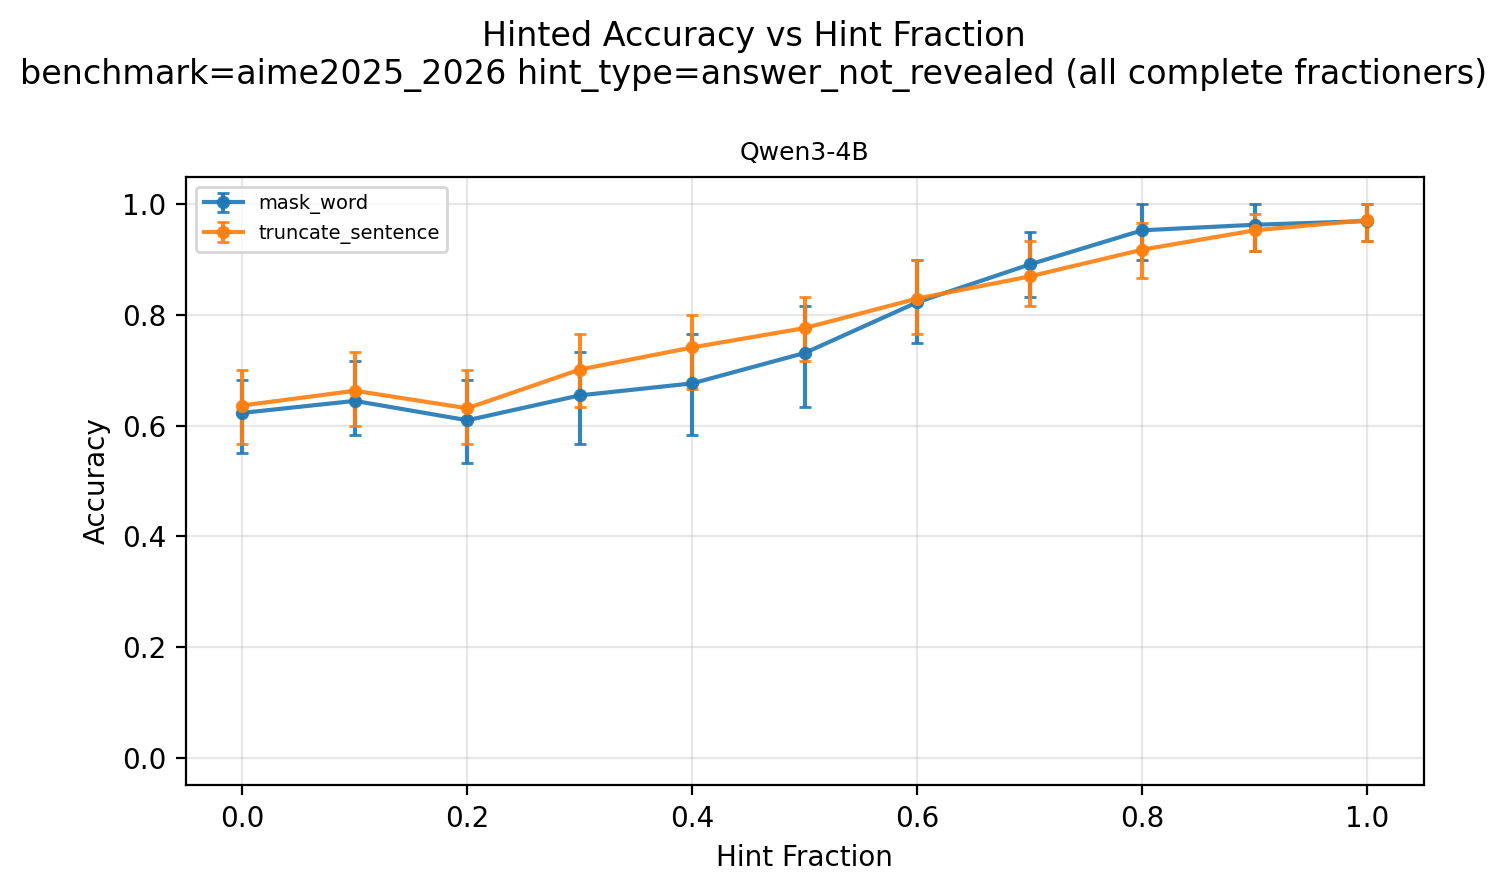
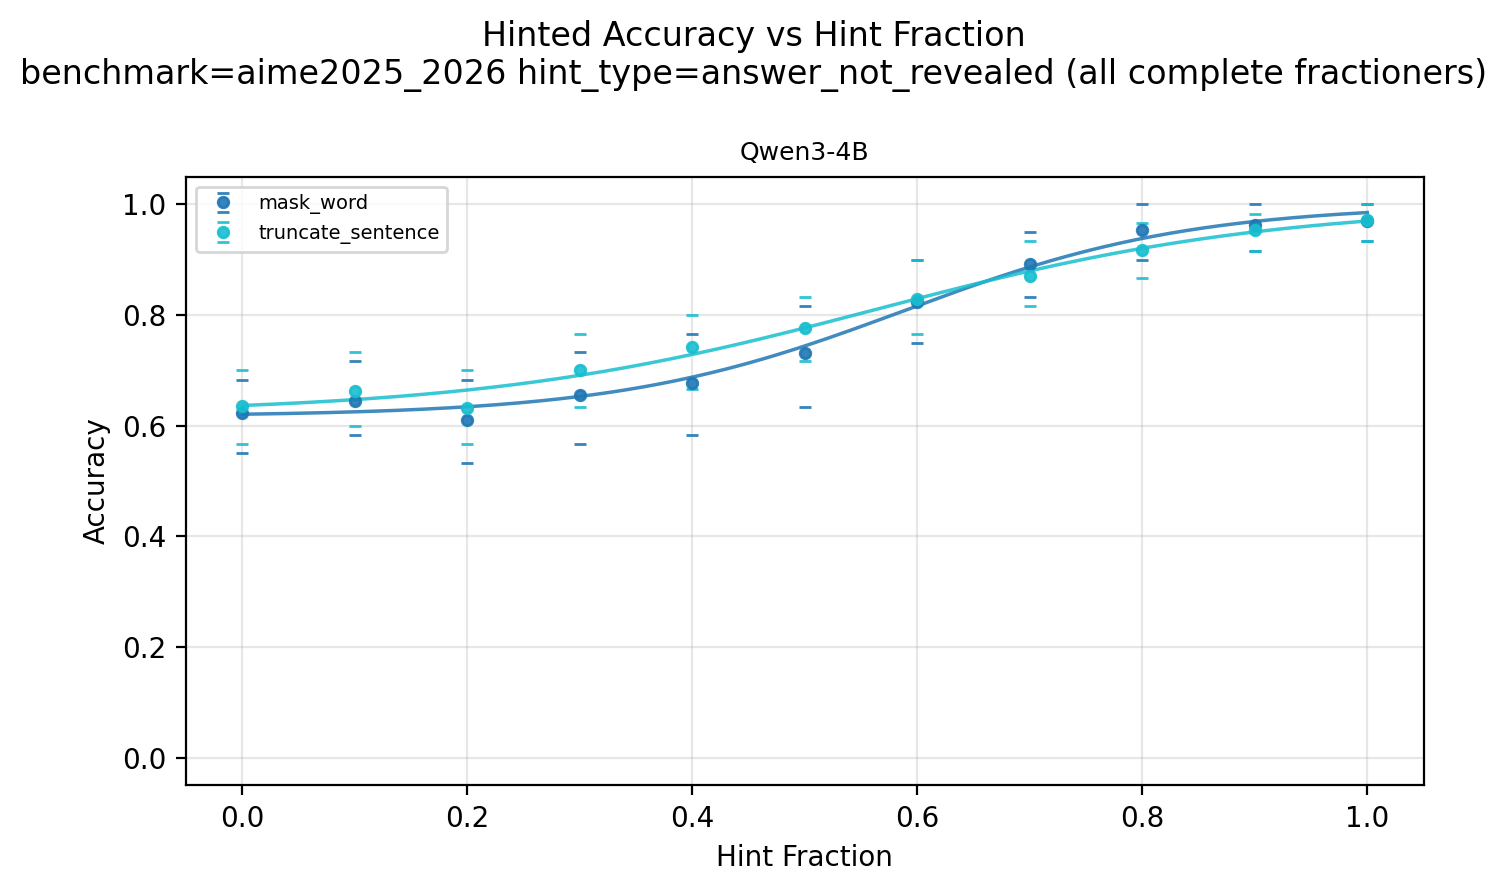
sigmoid fit for hint results

Changed region(s): [[0.1559, 0.2119, 0.9356, 0.4843], [0.1248, 0.2422, 0.1559, 0.2724]]

diff --git a/runs/plot_hinted_accuracy_vs_hint.py b/runs/plot_hinted_accuracy_vs_hint.py
@@ -9,6 +9,7 @@ from typing import Any
 
 import matplotlib.pyplot as plt
 import numpy as np
+from scipy.optimize import curve_fit
 
 
 DATA_ROOT = Path("data")
@@ -141,6 +142,67 @@ def _bootstrap_accuracy(
     return point_accuracy, float(ci_low), float(ci_high)
 
 
+def _sigmoid_curve(x: np.ndarray, lower: float, slope: float, bias: float) -> np.ndarray:
+    return lower + (1.0 - lower) * (1.0 / (1.0 + np.exp(-(slope * x + bias))))
+
+
+def _fit_sigmoid_for_series(series_rows: list[dict[str, Any]]) -> dict[str, float] | None:
+    if len(series_rows) < 4:
+        return None
+
+    rows_sorted = sorted(series_rows, key=lambda row: float(row["hint_fraction"]))
+    x = np.asarray([float(row["hint_fraction"]) for row in rows_sorted], dtype=float)
+    y = np.asarray([float(row["accuracy"]) for row in rows_sorted], dtype=float)
+    if np.allclose(y, y[0]):
+        return None
+
+    # Approximate per-point standard error from 95% CI half-width.
+    ci_half_width = np.asarray(
+        [
+            max(
+                1e-6,
+                0.5 * (float(row["ci_high"]) - float(row["ci_low"])),
+            )
+            for row in rows_sorted
+        ],
+        dtype=float,
+    )
+    sigma = np.maximum(ci_half_width / 1.96, 1e-4)
+
+    lower0 = float(np.clip(np.min(y) - 0.02, 0.0, 0.95))
+    y_mid = 0.5 * (float(np.min(y)) + float(np.max(y)))
+    mid_idx = int(np.argmin(np.abs(y - y_mid)))
+    x_mid = float(x[mid_idx])
+    slope0 = 8.0
+    bias0 = -slope0 * x_mid
+
+    try:
+        params, _ = curve_fit(
+            _sigmoid_curve,
+            x,
+            y,
+            p0=[lower0, slope0, bias0],
+            sigma=sigma,
+            absolute_sigma=True,
+            bounds=([0.0, 1e-6, -50.0], [0.99, 100.0, 50.0]),
+            maxfev=20000,
+        )
+    except Exception:
+        return None
+
+    lower, slope, bias = [float(v) for v in params]
+    midpoint = float(-bias / slope) if slope > 0 else float("nan")
+    y_hat = _sigmoid_curve(x, lower, slope, bias)
+    rmse = float(np.sqrt(np.mean((y - y_hat) ** 2)))
+    return {
+        "sigmoid_lower": lower,
+        "sigmoid_slope": slope,
+        "sigmoid_bias": bias,
+        "sigmoid_midpoint": midpoint,
+        "sigmoid_rmse": rmse,
+    }
+
+
 def _collect_stats_for_fraction(
     *,
     path: Path,
@@ -197,7 +259,13 @@ def _collect_stats_for_fraction(
     }
 
 
-def _plot(results: list[dict[str, Any]], *, output_png: Path, title: str) -> None:
+def _plot(
+    results: list[dict[str, Any]],
+    *,
+    fit_map: dict[tuple[str, str], dict[str, float]],
+    output_png: Path,
+    title: str,
+) -> None:
     models = sorted({row["model"] for row in results})
     n_models = len(models)
 
@@ -214,7 +282,9 @@ def _plot(results: list[dict[str, Any]], *, output_png: Path, title: str) -> Non
         ax = axes[idx]
         model_rows = [row for row in results if row["model"] == model]
         fractioners = sorted({str(row["fractioner"]) for row in model_rows})
-        for fractioner in fractioners:
+        cmap = plt.cm.tab10
+        for j, fractioner in enumerate(fractioners):
+            color = cmap(j / max(len(fractioners) - 1, 1))
             series_rows = sorted(
                 [row for row in model_rows if row["fractioner"] == fractioner],
                 key=lambda row: float(row["hint_fraction"]),
@@ -229,13 +299,26 @@ def _plot(results: list[dict[str, Any]], *, output_png: Path, title: str) -> Non
                 x,
                 y,
                 yerr=yerr,
-                fmt="o-",
+                fmt="o",
                 alpha=0.9,
-                linewidth=1.5,
+                linewidth=0.0,
                 markersize=3.8,
                 capsize=2.0,
+                color=color,
                 label=fractioner,
             )
+
+            fit_key = (str(model), str(fractioner))
+            fit = fit_map.get(fit_key)
+            if fit is not None:
+                x_fit = np.linspace(0.0, 1.0, 200, dtype=float)
+                y_fit = _sigmoid_curve(
+                    x_fit,
+                    float(fit["sigmoid_lower"]),
+                    float(fit["sigmoid_slope"]),
+                    float(fit["sigmoid_bias"]),
+                )
+                ax.plot(x_fit, y_fit, "-", color=color, linewidth=1.25, alpha=0.85)
         ax.set_title(model, fontsize=9)
         ax.set_xlabel("Hint Fraction")
         ax.set_ylabel("Accuracy")
@@ -348,6 +431,35 @@ def main() -> None:
         rows,
         key=lambda r: (str(r["model"]), str(r["fractioner"]), float(r["hint_fraction"])),
     )
+    series_map: dict[tuple[str, str], list[dict[str, Any]]] = {}
+    for row in rows_sorted:
+        key = (str(row["model"]), str(row["fractioner"]))
+        series_map.setdefault(key, []).append(row)
+
+    fit_rows: list[dict[str, Any]] = []
+    fit_map: dict[tuple[str, str], dict[str, float]] = {}
+    for key, series_rows in sorted(series_map.items()):
+        model, fractioner = key
+        fit = _fit_sigmoid_for_series(series_rows)
+        if fit is None:
+            print(
+                f"[plot_hinted_accuracy_vs_hint][WARN] sigmoid fit failed/skipped "
+                f"model={model} fractioner={fractioner}"
+            )
+            continue
+        fit_row = {
+            "model": model,
+            "fractioner": fractioner,
+            "n_points": int(len(series_rows)),
+            **fit,
+        }
+        fit_rows.append(fit_row)
+        fit_map[key] = fit
+        print(
+            f"[plot_hinted_accuracy_vs_hint] fit model={model} fractioner={fractioner} "
+            f"midpoint={float(fit['sigmoid_midpoint']):.4f} "
+            f"rmse={float(fit['sigmoid_rmse']):.4f}"
+        )
 
     stem = (
         f"{_safe_component(args.benchmark)}__{_safe_component(args.hint_type)}__"
@@ -355,6 +467,7 @@ def main() -> None:
     )
     PLOTS_ROOT.mkdir(parents=True, exist_ok=True)
     csv_path = PLOTS_ROOT / f"{stem}__bootstrap.csv"
+    fit_csv_path = PLOTS_ROOT / f"{stem}__sigmoid_fits.csv"
     json_path = PLOTS_ROOT / f"{stem}__bootstrap.json"
     png_path = PLOTS_ROOT / f"{stem}__bootstrap.png"
 
@@ -379,6 +492,23 @@ def main() -> None:
         writer.writeheader()
         writer.writerows(rows_sorted)
 
+    with open(fit_csv_path, "w", newline="", encoding="utf-8") as f:
+        writer = csv.DictWriter(
+            f,
+            fieldnames=[
+                "model",
+                "fractioner",
+                "n_points",
+                "sigmoid_lower",
+                "sigmoid_slope",
+                "sigmoid_bias",
+                "sigmoid_midpoint",
+                "sigmoid_rmse",
+            ],
+        )
+        writer.writeheader()
+        writer.writerows(sorted(fit_rows, key=lambda r: (str(r["model"]), str(r["fractioner"]))))
+
     with open(json_path, "w", encoding="utf-8") as f:
         json.dump(
             {
@@ -389,6 +519,7 @@ def main() -> None:
                 "n_bootstrap": N_BOOTSTRAP,
                 "random_seed": RANDOM_SEED,
                 "rows": rows_sorted,
+                "sigmoid_fits": fit_rows,
             },
             f,
             ensure_ascii=False,
@@ -397,6 +528,7 @@ def main() -> None:
 
     _plot(
         rows_sorted,
+        fit_map=fit_map,
         output_png=png_path,
         title=(
             f"Hinted Accuracy vs Hint Fraction\n"
@@ -406,10 +538,12 @@ def main() -> None:
     )
 
     print(f"[plot_hinted_accuracy_vs_hint] wrote_csv={csv_path}")
+    print(f"[plot_hinted_accuracy_vs_hint] wrote_fit_csv={fit_csv_path}")
     print(f"[plot_hinted_accuracy_vs_hint] wrote_json={json_path}")
     print(f"[plot_hinted_accuracy_vs_hint] wrote_plot={png_path}")
 
 
 if __name__ == "__main__":
     # python -m runs.plot_hinted_accuracy_vs_hint --benchmark aime2025_2026 --hint-type answer_not_revealed --model Qwen3-4B
+    # python -m runs.plot_hinted_accuracy_vs_hint --benchmark aime2025_2026 --hint-type answer_not_revealed
     main()
